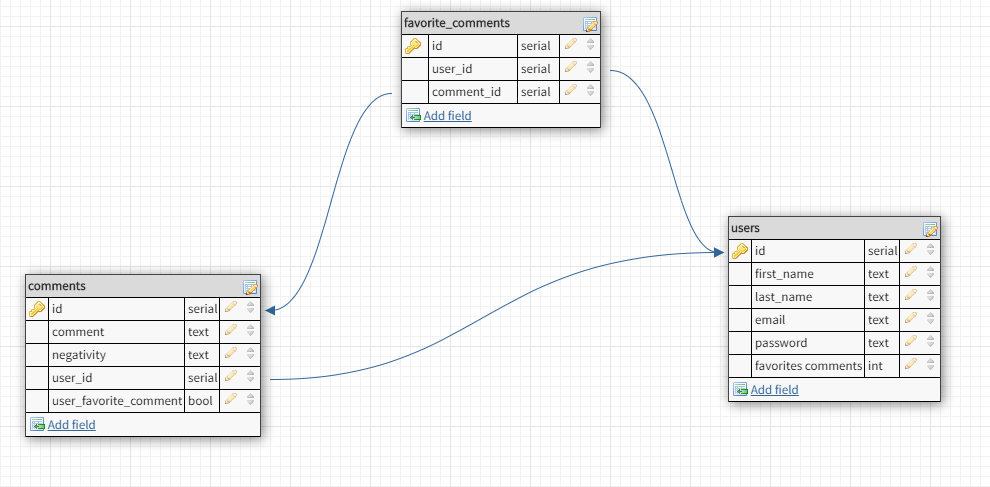
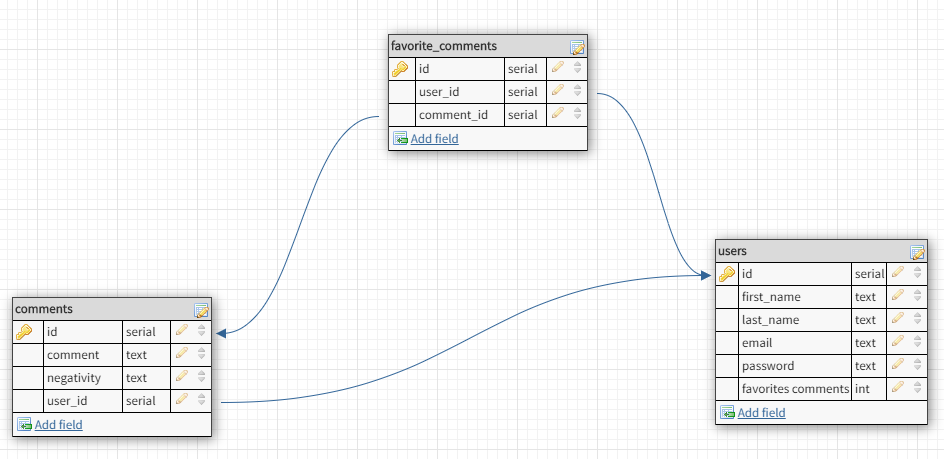
took away favorite column seed data

diff --git a/database/seeds/02-comments.js b/database/seeds/02-comments.js
@@ -8,19 +8,6 @@ exports.seed = function (knex) {
       comment: faker.hacker.phrase(),
       negativity_score: faker.random.number({ max: 20000, min: 5000, precision: 1 }),
       user_id: faker.random.number({ max: 10, min: 1, precision: 1 }),
-      favorite: true,
-    },
-    {
-      comment: faker.hacker.phrase(),
-      negativity_score: faker.random.number({ max: 20000, min: 5000, precision: 1 }),
-      user_id: faker.random.number({ max: 10, min: 1, precision: 1 }),
-      favorite: true,
-    },
-    {
-      comment: faker.hacker.phrase(),
-      negativity_score: faker.random.number({ max: 20000, min: 5000, precision: 1 }),
-      user_id: faker.random.number({ max: 10, min: 1, precision: 1 }),
-      favorite: true,
     },
     {
       comment: faker.hacker.phrase(),
@@ -31,7 +18,6 @@ exports.seed = function (knex) {
       comment: faker.hacker.phrase(),
       negativity_score: faker.random.number({ max: 20000, min: 5000, precision: 1 }),
       user_id: faker.random.number({ max: 10, min: 1, precision: 1 }),
-      favorite: true,
     },
     {
       comment: faker.hacker.phrase(),
@@ -42,7 +28,6 @@ exports.seed = function (knex) {
       comment: faker.hacker.phrase(),
       negativity_score: faker.random.number({ max: 20000, min: 5000, precision: 1 }),
       user_id: faker.random.number({ max: 10, min: 1, precision: 1 }),
-      favorite: true,
     },
     {
       comment: faker.hacker.phrase(),
@@ -53,13 +38,6 @@ exports.seed = function (knex) {
       comment: faker.hacker.phrase(),
       negativity_score: faker.random.number({ max: 20000, min: 5000, precision: 1 }),
       user_id: faker.random.number({ max: 10, min: 1, precision: 1 }),
-      favorite: true,
-    },
-    {
-      comment: faker.hacker.phrase(),
-      negativity_score: faker.random.number({ max: 20000, min: 5000, precision: 1 }),
-      user_id: faker.random.number({ max: 10, min: 1, precision: 1 }),
-      favorite: true,
     },
     {
       comment: faker.hacker.phrase(),
@@ -70,19 +48,31 @@ exports.seed = function (knex) {
       comment: faker.hacker.phrase(),
       negativity_score: faker.random.number({ max: 20000, min: 5000, precision: 1 }),
       user_id: faker.random.number({ max: 10, min: 1, precision: 1 }),
-      favorite: true,
     },
     {
       comment: faker.hacker.phrase(),
       negativity_score: faker.random.number({ max: 20000, min: 5000, precision: 1 }),
       user_id: faker.random.number({ max: 10, min: 1, precision: 1 }),
-      favorite: true,
     },
     {
       comment: faker.hacker.phrase(),
       negativity_score: faker.random.number({ max: 20000, min: 5000, precision: 1 }),
       user_id: faker.random.number({ max: 10, min: 1, precision: 1 }),
-      favorite: true,
+    },
+    {
+      comment: faker.hacker.phrase(),
+      negativity_score: faker.random.number({ max: 20000, min: 5000, precision: 1 }),
+      user_id: faker.random.number({ max: 10, min: 1, precision: 1 }),
+    },
+    {
+      comment: faker.hacker.phrase(),
+      negativity_score: faker.random.number({ max: 20000, min: 5000, precision: 1 }),
+      user_id: faker.random.number({ max: 10, min: 1, precision: 1 }),
+    },
+    {
+      comment: faker.hacker.phrase(),
+      negativity_score: faker.random.number({ max: 20000, min: 5000, precision: 1 }),
+      user_id: faker.random.number({ max: 10, min: 1, precision: 1 }),
     },
     {
       comment: faker.hacker.phrase(),
